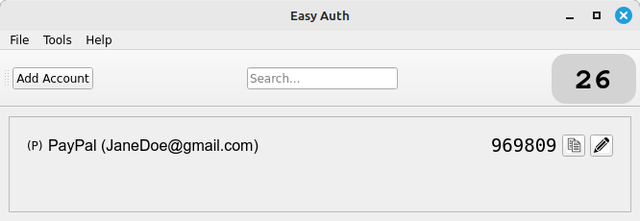
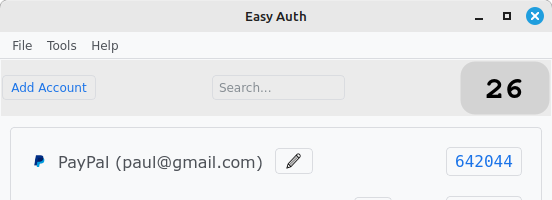
Update README and Quick Start Guide.

diff --git a/docs/quick_start_guide.html b/docs/quick_start_guide.html
@@ -591,10 +591,10 @@ header, .context-menu, .megamenu-content, footer{
 
 
  .typora-export li, .typora-export p, .typora-export,  .footnote-line {white-space: normal;} h1,h2,h3,h4,h5 {white-space:pre-line}
-</style><title>DRAFT Easy Auth Quick Start Guide</title>
+</style><title>Quick Start Guide</title>
 </head>
 <body class='typora-export'><div class='typora-export-content'>
-<div id='write'  class=''><h2 id='easyauth-quick-start-guide'><span>EasyAuth Quick Start Guide</span></h2><p><span>The quide will show how to store shared keys in your EasyAuth vault and use Time-based One-time Passwords (TOTP) to authenticate with a website.</span></p><h4 id='prerequisites'><span>Prerequisites</span></h4><ol start='' ><li><p><span>You are using a Linux desktop OS.</span></p></li><li><p><span>You have a web browser open to the site with which you want to establish two-factor authentication (for example, </span><code>paypal.com</code><span>).  We will refer to this site as the &quot;provider&quot;.</span></p></li><li><p><span>You have begun the process of enabling 2-factor authentication and are viewing a QR code that contains a shared secret key. </span></p></li></ol><h3 id='step-1-create-an-account-in-easyauth'><span>Step 1: Create an account in EasyAuth</span></h3><ol start='' ><li><p><span>Open EasyAuth.  The first time it is launched a message indicates that you have an empty vault.</span><br/><img src="images/vault-empty.png" alt="vault-empty" border="0"></p></li><li><p><span>Make sure the QR code is visible somewhere on the screen. Click the &#39;Add Account&#39; button. The program will search for a visible QR code and display a confirmation dialog.</span><br/><img src="images/confirm-dialog.png" alt="confirm-dialog" border="0"></p></li><li><p><span>Verify that the correct provider is shown.  You may change the value of the User field to any label that reminds you which online account this entry is associated with (usually username or email address).  </span></p></li><li><p><span>Click &quot;Save.&quot; The dialog closes and the main window appears with the new account listed at the top.   The Provider and User fields are shown on the left and on the right is the TOTP.</span><br/><img src="images/Main-Window.png" alt="Main-Window" border="0"><span>  </span></p></li></ol><p>&nbsp;</p><h3 id='step-2-verifying-with-the-totp-code'><span>Step 2: Verifying with the TOTP code.</span></h3><ol start='' ><li><p><span>Now that EasyAuth has created an account for the desired website, it  will display a six-digit One-Time Password (TOTP) for the account that  changes every 30 seconds. The seconds timer indicates how much  time remains for the displayed TOTP to be active.</span><br/><img src="images/TOTP-code.png" alt="TOTP-code" border="0"></p></li><li><p><span>Click the &quot;copy to clipboard&quot; icon and the TOTP code will be placed on the clipboard.</span></p></li><li><p><span>Complete the setup process on the website by copying this code into the verify field in your browser. </span></p></li><li><p><span>Next time you attempt to login to your online account you will be prompted to verify your identity. An entry form will be displayed requesting a  one-time code. </span></p></li><li><p><span>In EasyAuth locate the TOTP for the desired account and click on the &quot;copy to clipboard&quot; icon. Return to the website verification form and paste the six-digit code into the verification field.</span></p></li><li><p><span>If you are delayed in completing the copy-and-paste operation the 30-second activation period may expire and the website will decline to verify you.  Simply click the next TOTP code that appears in the main window and try again. </span></p></li></ol><p><span>EasyAuth&#39;s goal is to achieve two-factor authentication of your online identify in three mouse clicks. </span>
+<div id='write'  class=''><h2 id='easyauth-quick-start-guide'><span>EasyAuth Quick Start Guide</span></h2><p><span>The quide will show how to store shared keys in your EasyAuth vault and use Time-based One-time Passwords (TOTP) to authenticate with a website.</span></p><h4 id='prerequisites'><span>Prerequisites</span></h4><ol start='' ><li><p><span>You are using a Linux desktop OS.</span></p></li><li><p><span>You have a web browser open to the site with which you want to establish two-factor authentication (for example, </span><code>paypal.com</code><span>).  We will refer to this site as the &quot;provider&quot;.</span></p></li><li><p><span>You have begun the process of enabling 2-factor authentication and are viewing a QR code that contains a shared secret key. </span></p></li></ol><h3 id='step-1-create-an-account-in-easyauth'><span>Step 1: Create an account in EasyAuth</span></h3><ol start='' ><li><p><span>Open EasyAuth.  The first time it is launched a message indicates that you have an empty vault.</span><br/><img src="images/vault-empty.png" alt="vault-empty" border="0"></p></li><li><p><span>Make sure the QR code is visible somewhere on the screen. Click the &#39;Add Account&#39; button. The program will search for a visible QR code and display a confirmation dialog.</span><br/><img src="images/confirm-dialog.png" alt="confirm-dialog" border="0"></p></li><li><p><span>Verify that the correct provider is shown.  You may change the value of the User field to any label that reminds you which online account this entry is associated with (usually username or email address).  </span></p></li><li><p><span>Click &quot;Save.&quot; The dialog closes and the main window appears with the new account listed at the top.   The Provider and User fields are shown on the left and on the right is the TOTP.</span><br/><img src="images/Main-Window.png" alt="Main-Window" border="0"><span>  </span></p></li></ol><p>&nbsp;</p><h3 id='step-2-verifying-with-the-totp-code'><span>Step 2: Verifying with the TOTP code.</span></h3><ol start='' ><li><p><span>Now that EasyAuth has created an account for the desired website, it  will display a six-digit One-Time Password (TOTP) for the account that  changes every 30 seconds. The seconds timer indicates how much  time remains for the displayed TOTP to be active.</span><br/><img src="images/TOTP-code.png" alt="TOTP-code" border="0"></p></li><li><p><span>Click the 6-digit TOTP code to copy it to the clipboard.</span></p></li><li><p><span>Complete the setup process on the website by pasting this code into the verify field in your browser. </span></p></li><li><p><span>Next time you attempt to login to your online account you will be prompted to verify your identity. An entry form will be displayed requesting a  one-time code. </span></p></li><li><p><span>In EasyAuth locate the TOTP for the desired account and click on the TOTP code. Return to the website verification form and paste the six-digit code into the verification field.</span></p></li><li><p><span>If you are delayed in completing the copy-and-paste operation the 30-second activation period may expire and the website will decline to verify you.  Simply click the next TOTP code that appears in the main window and try again. </span></p></li></ol><p><span>EasyAuth&#39;s goal is to achieve two-factor authentication of your online identify in three mouse clicks. </span>
 <span>Leave feedback or contribute to the project on </span><a href='https://www.github.com/jdalbey/EasyAuth'><span>Github</span></a><span>  </span></p><p>&nbsp;</p><p><span> </span></p></div></div>
 </body>
 </html>

diff --git a/src/view.py b/src/view.py
@@ -1,5 +1,4 @@
 import json
-import os
 import sys, logging
 from dataclasses import asdict
 

diff --git a/README.md b/README.md
@@ -10,24 +10,30 @@ Focus on ease of use for beginners using TOTP authentication.
  - The list can be manually reordered to achieve a custom ordering. 
  - Automatically finds QR codes displayed on the screen.  No need to scan QR codes with your phone.
  - QR codes can be read from an image file.
+ - Export and Import vault to plain-text JSON file.
  - Familiar easy-to-navigate desktop GUI.
  - Automatically finds favicons for many sites that offer TOTP verification.
- - Verifying with OTP in three easy steps: 
+ - GUI includes light and dark themes.
+ - Preferences dialog has some customization settings.
+ - Verifying with TOTP in three easy steps: 
    1. Open the application.  
-   2. Click Copy button next to the account you are logging in to. 
+   2. Click the TOTP code for the account you are logging in to. 
    3. Paste into verification form.
  
    No text messages to your phone, no email to check. Quick and hassle-free.
 
 
 ### Status
-Development underway.  Core features and GUI are implemented.
+All features above are implemented.
+Developer is "eating his own dog food" by using the program to login to Github to maintain this project repository.
 Error handling implemented for core data model classes.
-52 unit tests for are passing.  Approximately 2000 lines of code.
+Approximately 2000 lines of code.  67 automated unit tests for are passing.  
 
-### Screenshot
+### Screenshots
  
-<img src="https://i.ibb.co/LphWpmN/Easy-Auth-main-window.png" alt="Main Window">
+<a href="https://ibb.co/M5FwMGb"><img src="https://i.ibb.co/93QKsVJ/Main-Window.png" alt="Main-Window" border="0"></a>
+
+<a href="https://imgbb.com/"><img src="https://i.ibb.co/kM9b2Tb/Edit-Account-Dialog.png" alt="Edit-Account-Dialog" border="0"></a>
 ### Limitations
 
 Currently targets Linux OS.
@@ -49,6 +55,7 @@ pyautogui
 pyzbar  
 cryptography  
 qrcode  
+qdarktheme
 
 ## Usage
 Practice storing a new secret key using the sample QR code below.

diff --git a/docs/Quick Start Guide.md b/docs/Quick Start Guide.md
@@ -26,13 +26,13 @@ The quide will show how to store shared keys in your EasyAuth vault and use Time
 1. Now that EasyAuth has created an account for the desired website, it  will display a six-digit One-Time Password (TOTP) for the account that  changes every 30 seconds. The seconds timer indicates how much  time remains for the displayed TOTP to be active.  
 <img src="images/TOTP-code.png" alt="TOTP-code" border="0">
 
-2. Click the "copy to clipboard" icon and the TOTP code will be placed on the clipboard.
+2. Click the 6-digit TOTP code to copy it to the clipboard.
 
-3. Complete the setup process on the website by copying this code into the verify field in your browser. 
+3. Complete the setup process on the website by pasting this code into the verify field in your browser. 
 
 4. Next time you attempt to login to your online account you will be prompted to verify your identity. An entry form will be displayed requesting a  one-time code. 
 
-5. In EasyAuth locate the TOTP for the desired account and click on the "copy to clipboard" icon. Return to the website verification form and paste the six-digit code into the verification field.
+5. In EasyAuth locate the TOTP for the desired account and click on the TOTP code. Return to the website verification form and paste the six-digit code into the verification field.
 
 6. If you are delayed in completing the copy-and-paste operation the 30-second activation period may expire and the website will decline to verify you.  Simply click the next TOTP code that appears in the main window and try again. 
 
